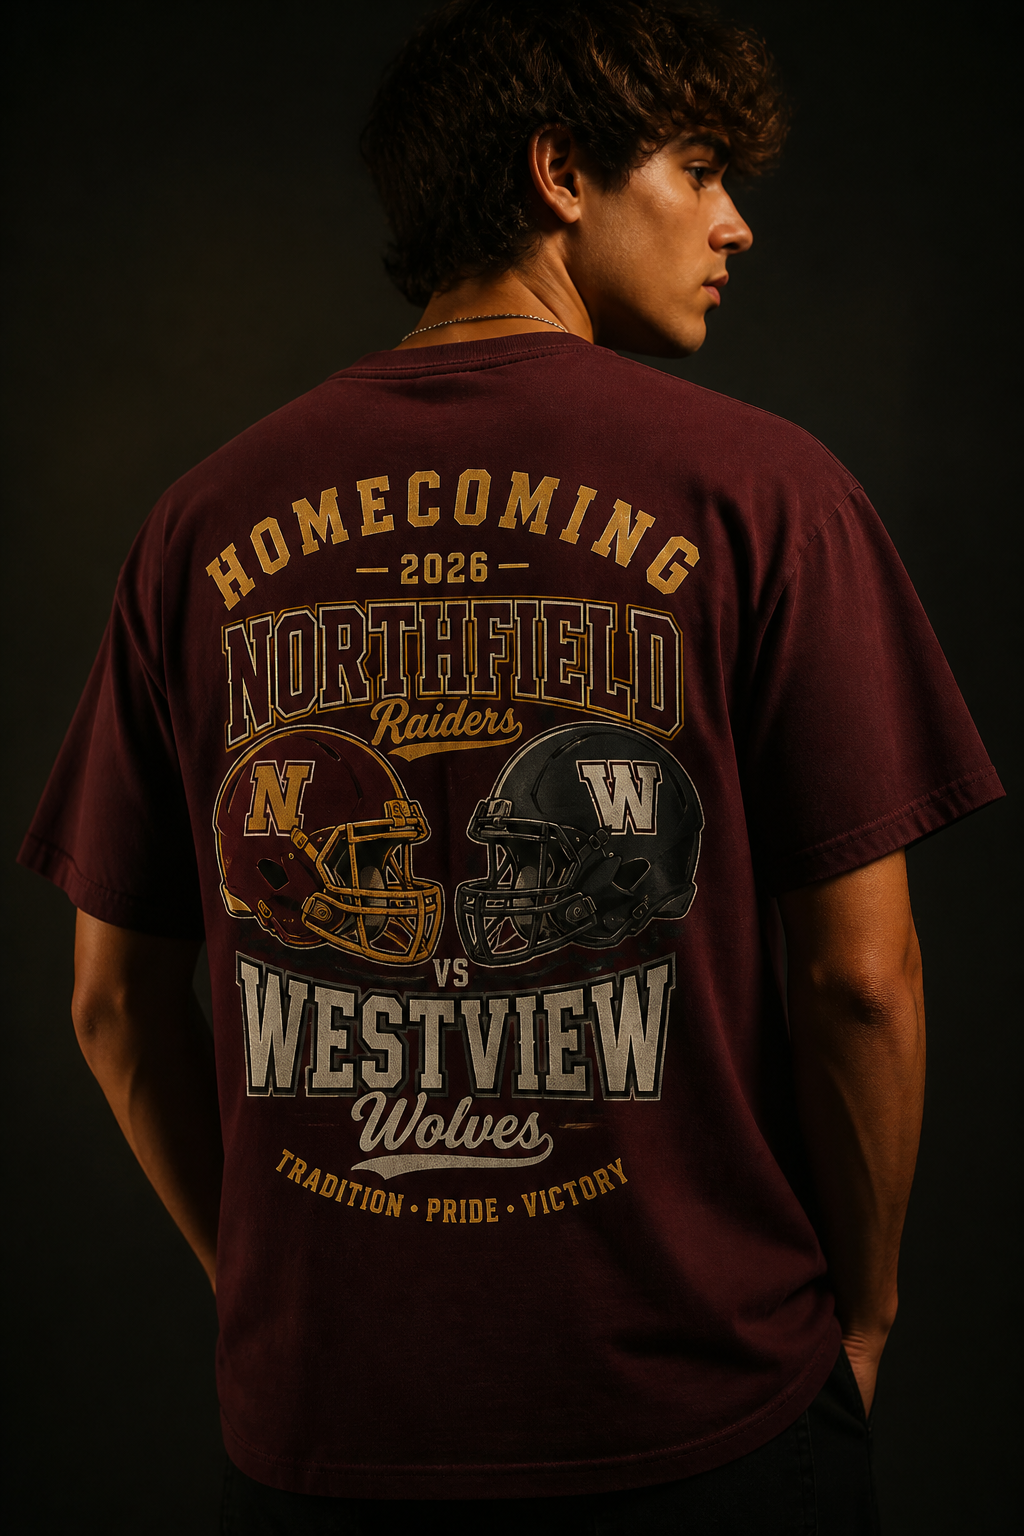
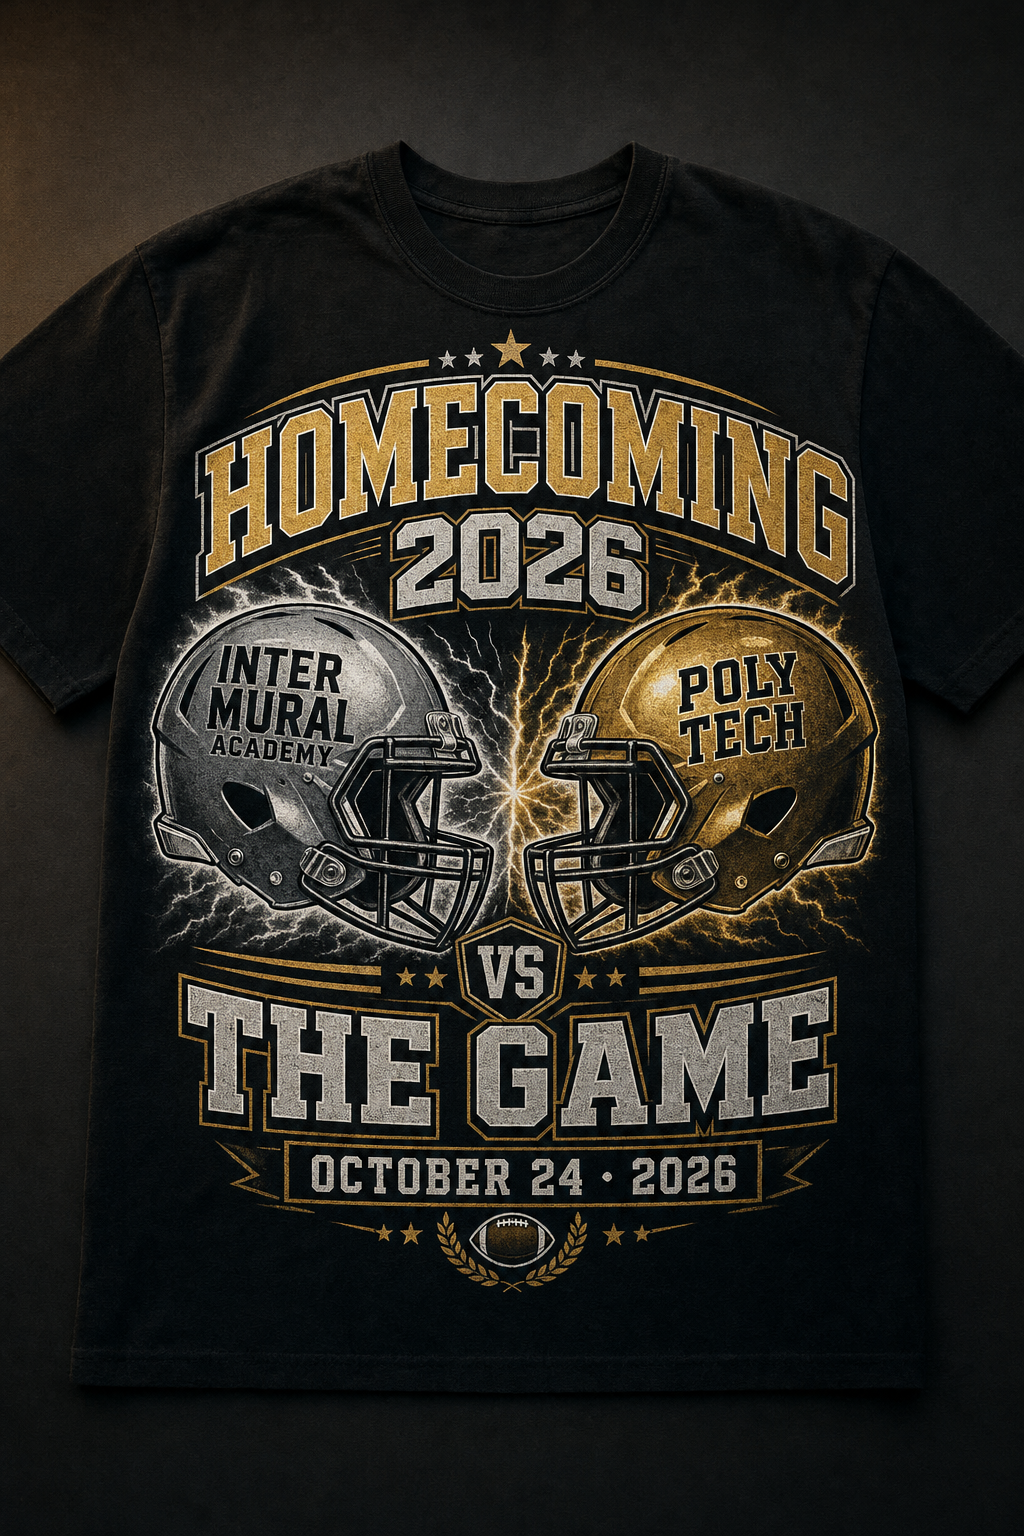
fix: wire all new Inter Mural Academy brand images — featured products, hero, philosophy

diff --git a/src/app/page.tsx b/src/app/page.tsx
@@ -11,10 +11,10 @@ export const metadata: Metadata = {
 }
 
 const featuredProducts = [
-  { name: 'Intramural Varsity Jacket', price: 'Starting at $185', image: '/images/collection-jackets.png', slug: 'intramural-varsity-jacket', tag: 'Bestseller' },
-  { name: 'Heavy Fleece Hoodie', price: 'Starting at $95', image: '/images/philosophy-fleece.png', slug: 'inter-mural-heavy-fleece-hoodie' },
-  { name: 'Signature Knee-High Sock', price: 'Starting at $24', image: '/images/collection-socks.png', slug: 'signature-knee-high-sock', tag: 'New' },
-  { name: 'Game Day Full-Zip Fleece', price: 'Starting at $110', image: '/images/collection-jackets.png', slug: 'game-day-full-zip-fleece' },
+  { name: 'Intramural Varsity Jacket', price: 'Starting at $185', image: '/images/featured-varsity-jacket.png', slug: 'intramural-varsity-jacket', tag: 'Bestseller' },
+  { name: 'Heavy Fleece Hoodie', price: 'Starting at $95', image: '/images/featured-fleece-hoodie.png', slug: 'inter-mural-heavy-fleece-hoodie' },
+  { name: 'Signature Knee-High Sock', price: 'Starting at $24', image: '/images/featured-knee-high-sock.png', slug: 'signature-knee-high-sock', tag: 'New' },
+  { name: 'Game Day Full-Zip Fleece', price: 'Starting at $110', image: '/images/featured-game-day-fleece.png', slug: 'game-day-full-zip-fleece' },
 ]
 
 const collections = [
